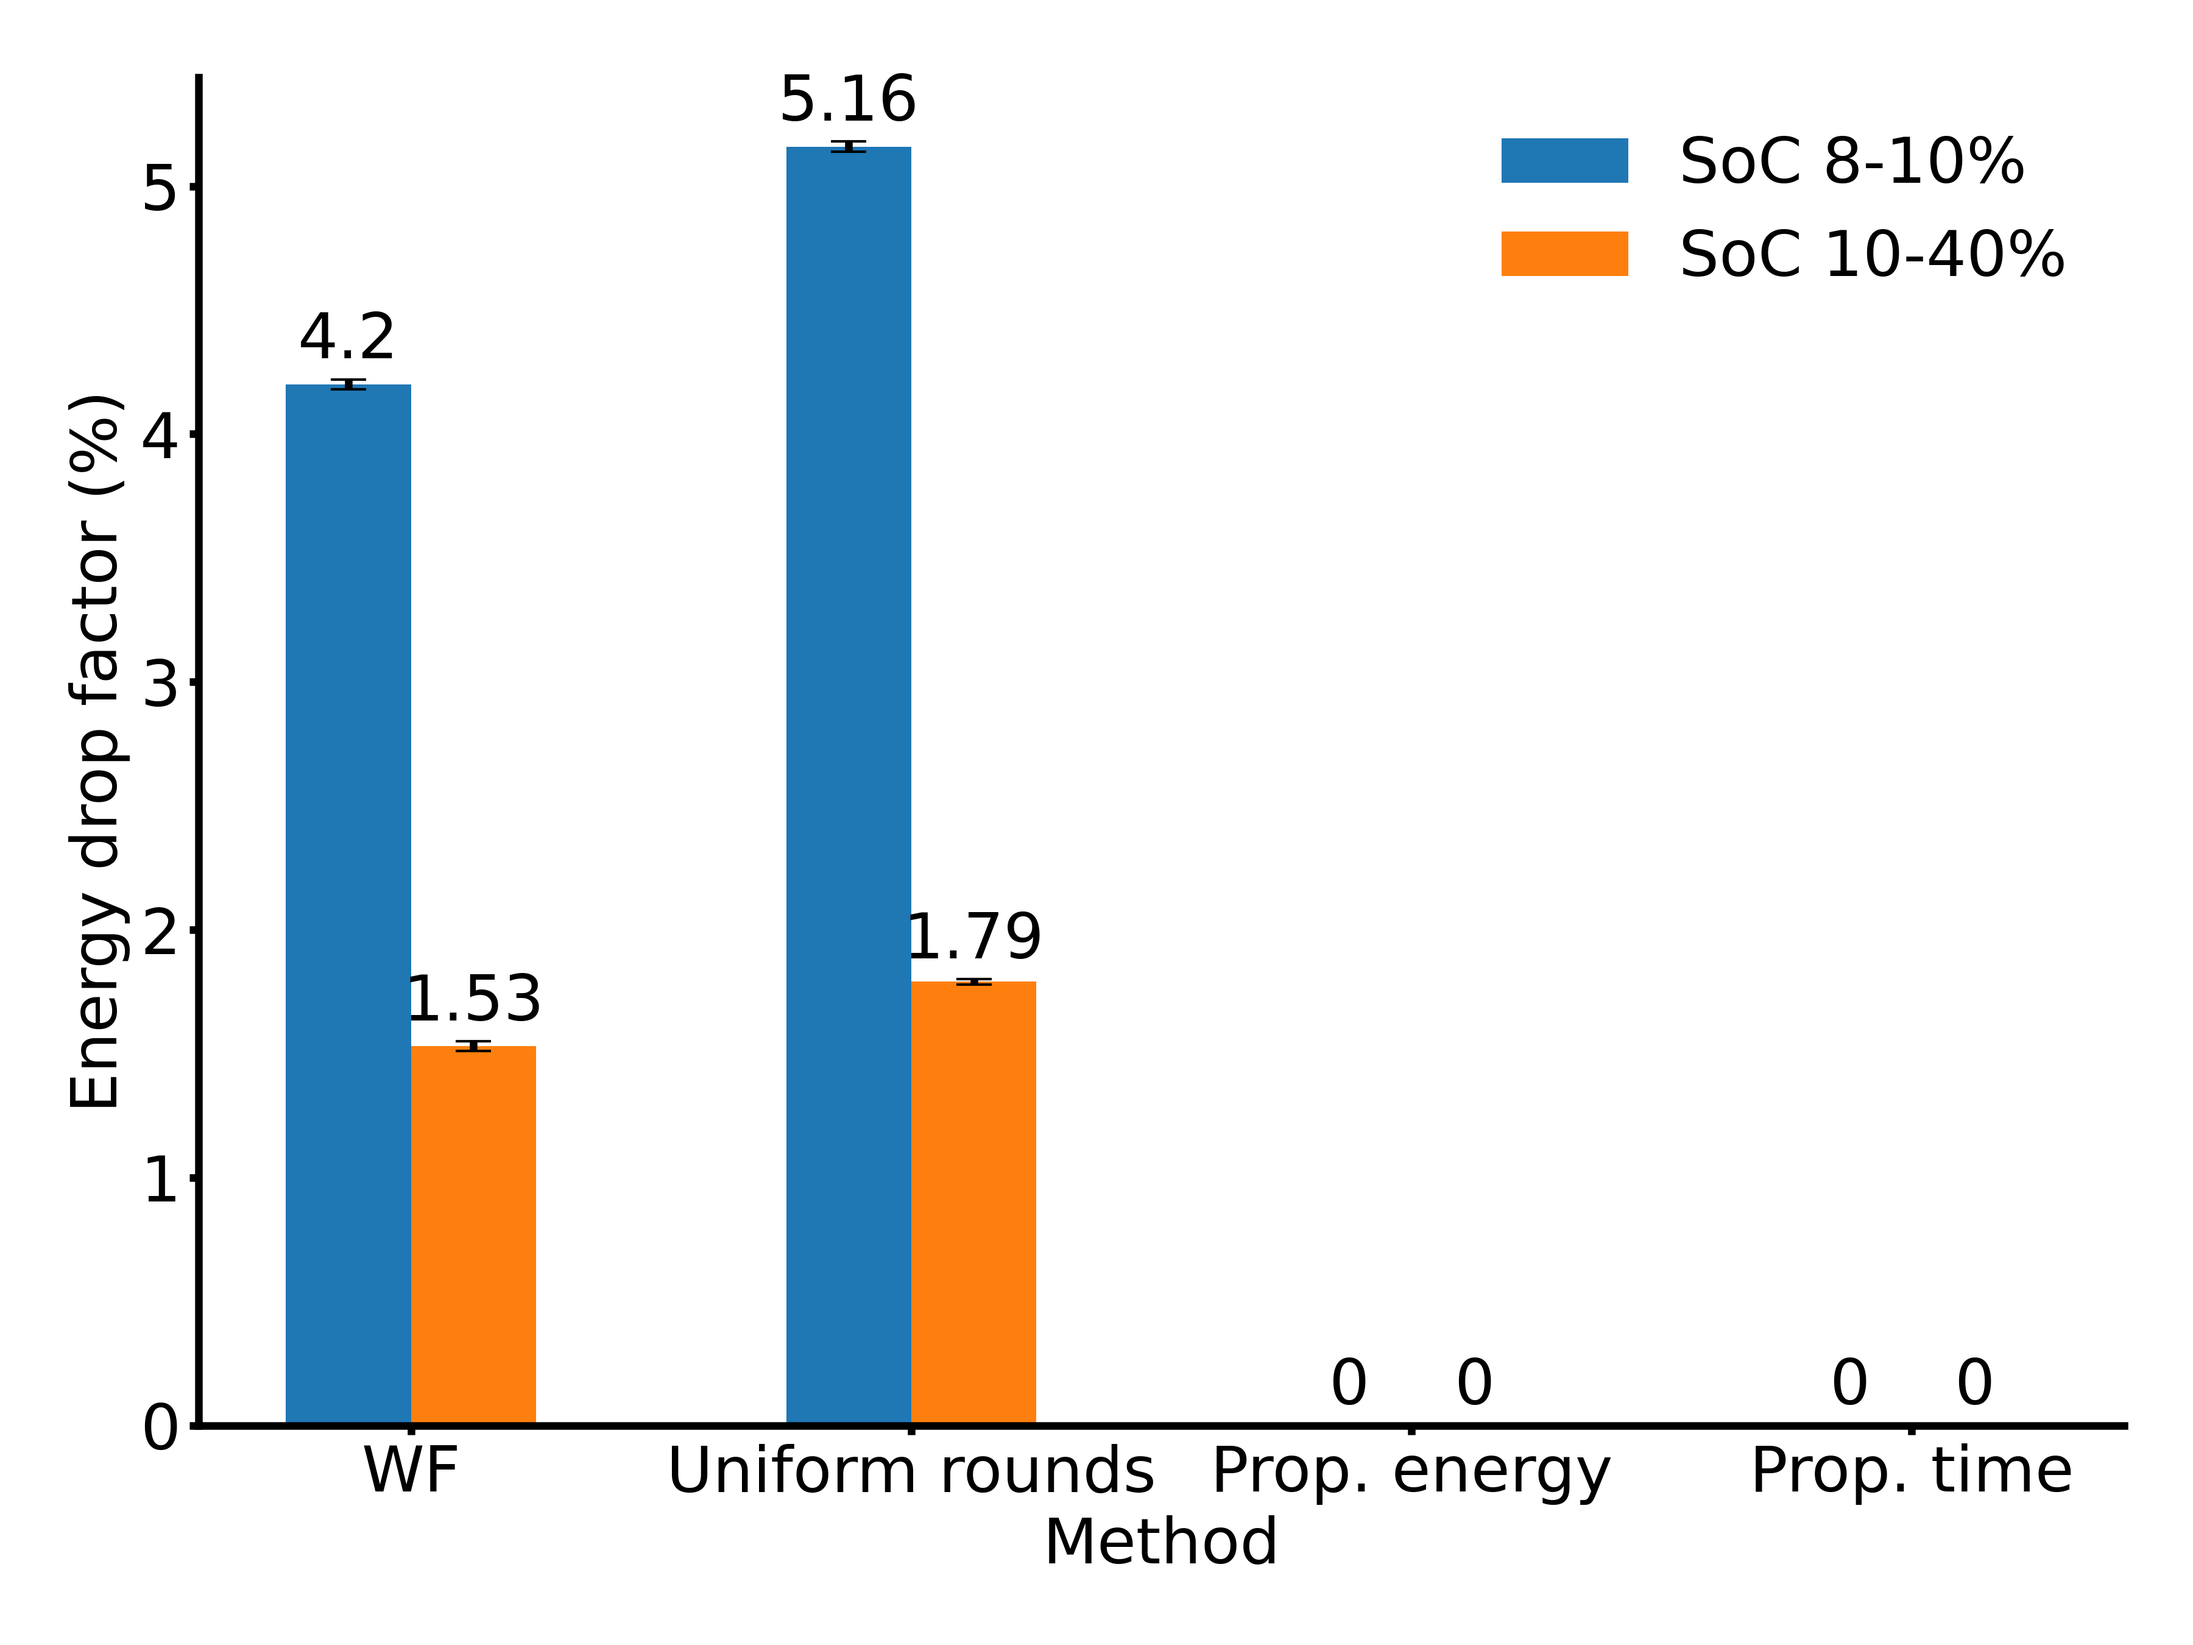
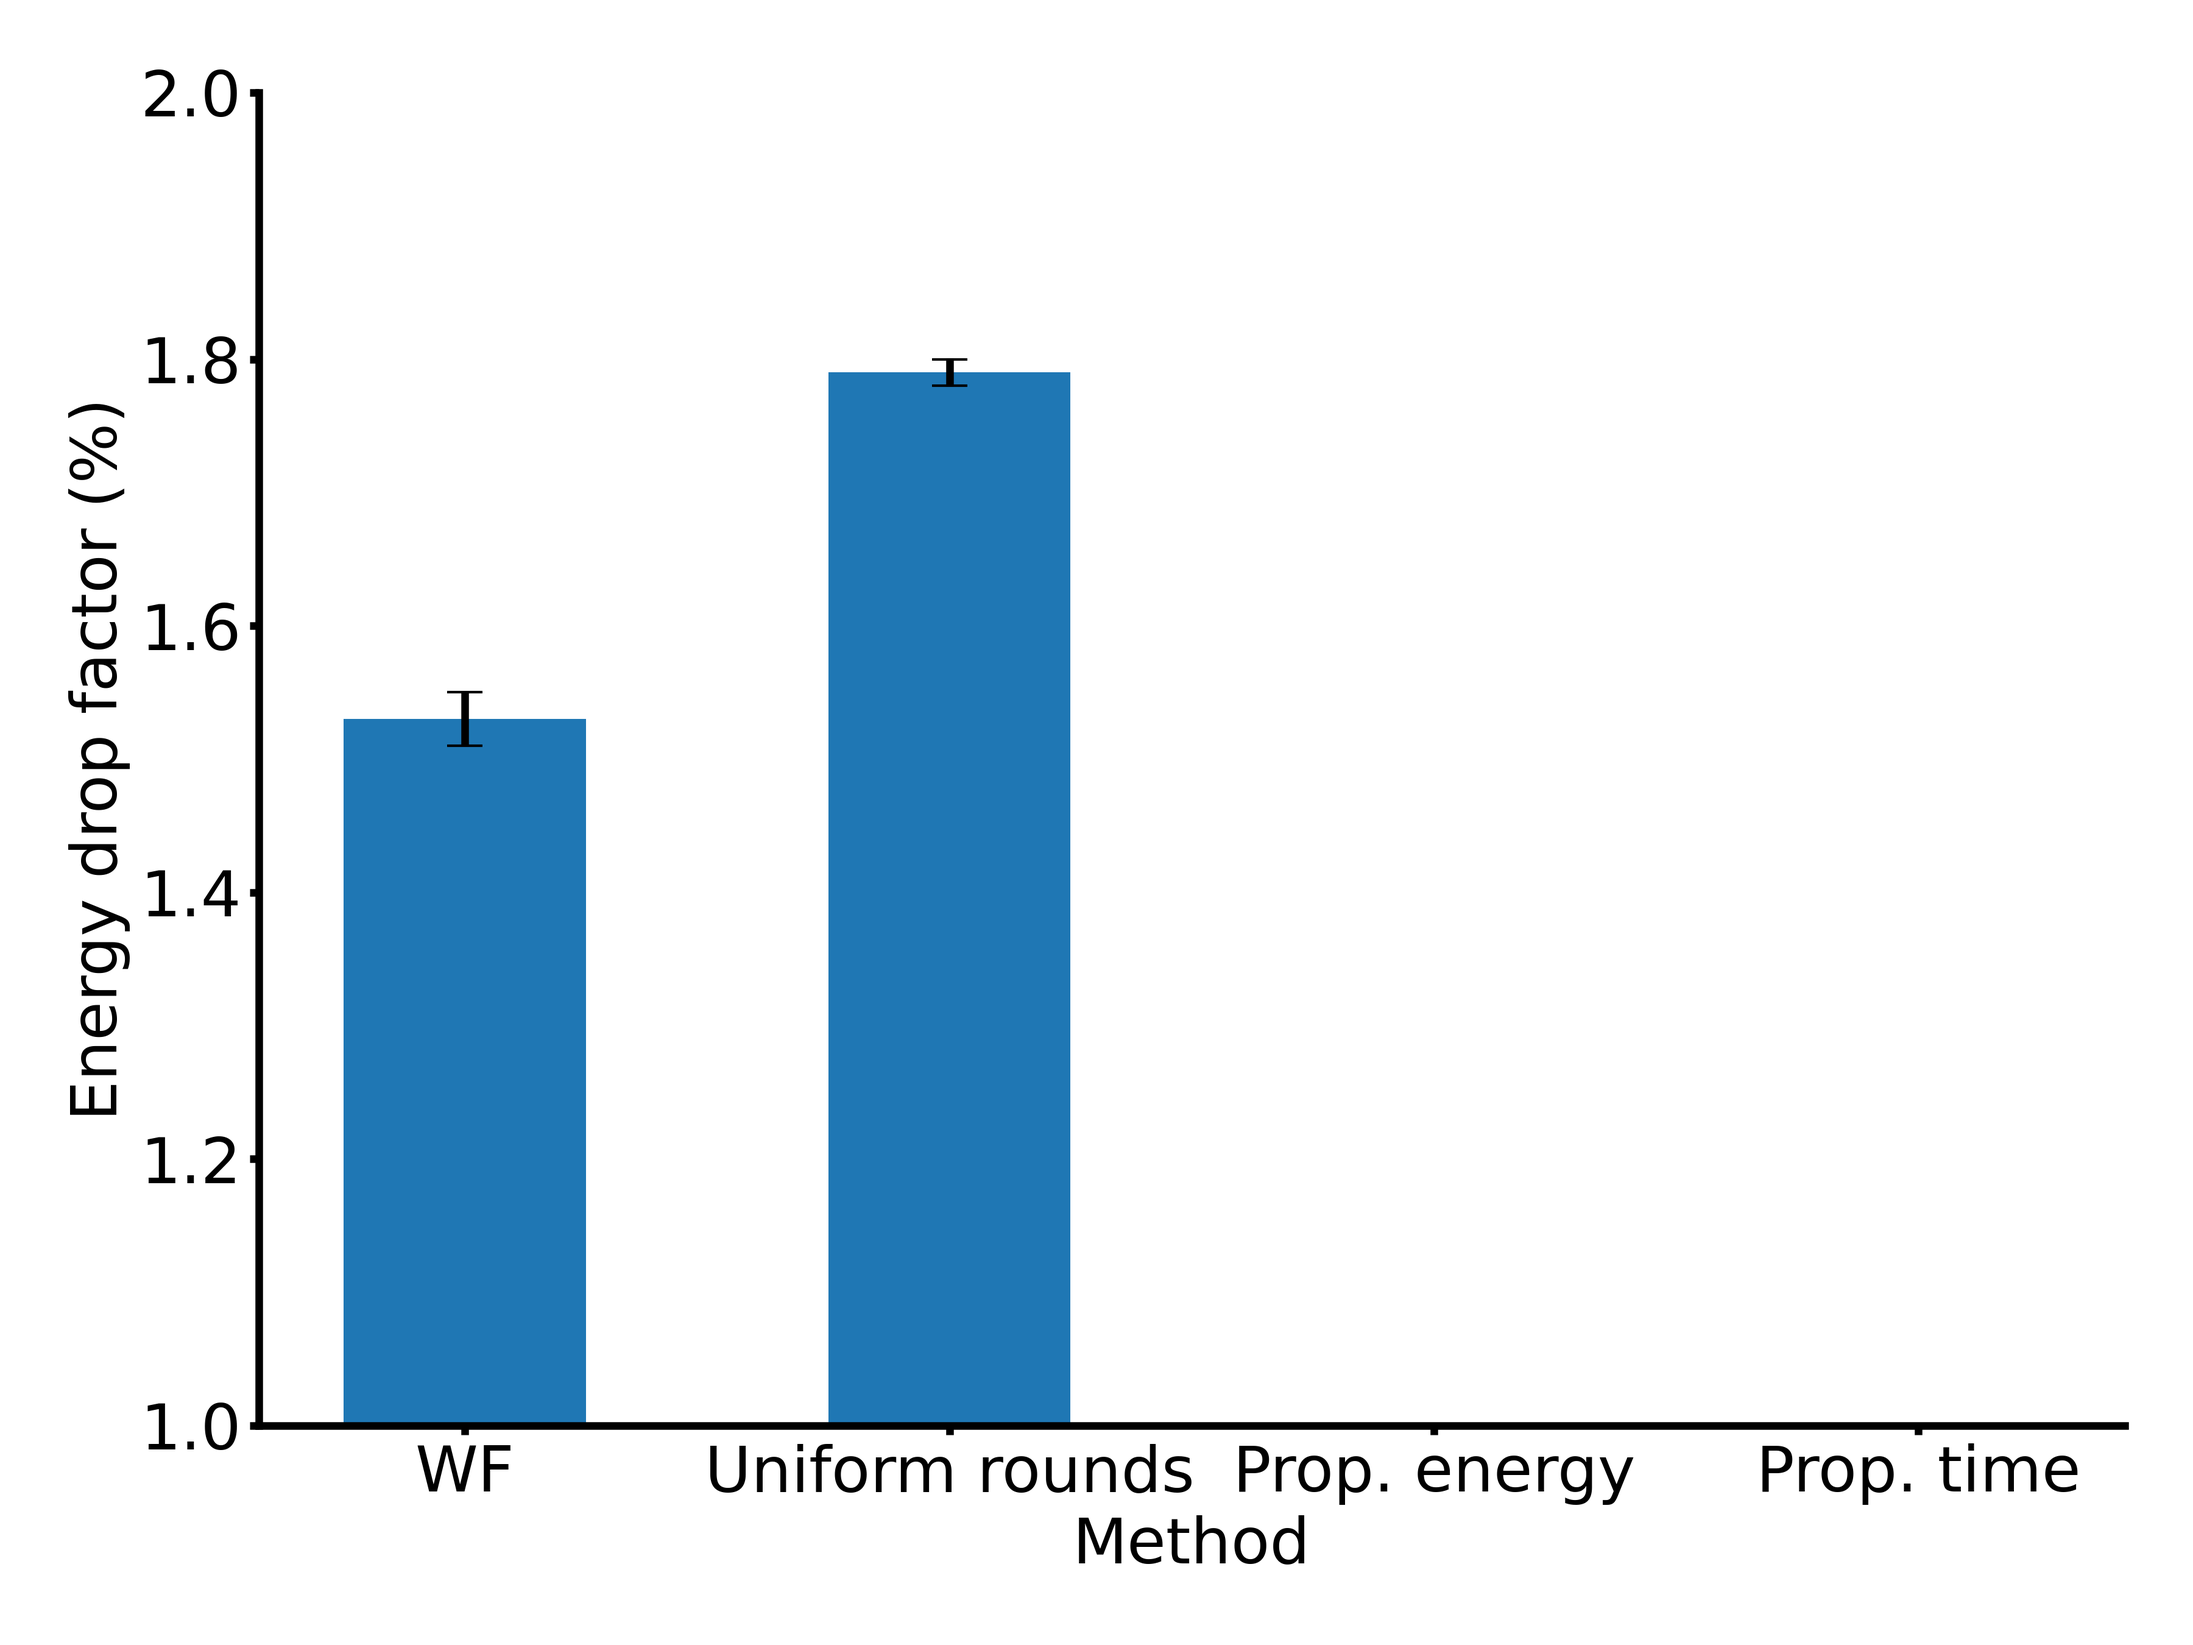
Better plots

diff --git a/plots/plot_drop_factor.py b/plots/plot_drop_factor.py
@@ -5,40 +5,25 @@ import numpy as np
 plt.style.use('~/guiaraujo.mplstyle')
 
 solvers = ["WF","Uniform rounds","Prop. energy","Prop. time"]
-drop_factor_8_to_10 = [4.20, 5.16, 0, 0]
-drop_factor_8_to_10_err = [0.02, 0.02, 0, 0]
 drop_factor_10_to_40 = [1.53, 1.79, 0, 0]
 drop_factor_10_to_40_err = [0.02, 0.01, 0, 0]
 
 x = np.arange(len(solvers))
 
-fig, ax = plt.subplots(figsize=(12,9), layout='constrained')
-
-# 8 to 10
-rects = ax.bar(
-    x, 
-    drop_factor_8_to_10, 
-    yerr=drop_factor_8_to_10_err,
-    width=0.25, 
-    label="SoC 8-10%")
-ax.bar_label(rects, padding=3)
-
+fig, ax = plt.subplots(figsize=(12,9))
 # 10 to 40
 rects = ax.bar(
-    x+0.25, 
+    x, 
     drop_factor_10_to_40, 
     yerr=drop_factor_10_to_40_err,
-    width=0.25, 
+    width=0.5, 
     label="SoC 10-40%")
-ax.bar_label(rects, padding=3)
 
-ax.set_xticks(x+0.25/2)
+ax.set_xticks(x)
 ax.set_xticklabels(solvers)
 ax.set_xlabel("Method")
 ax.set_ylabel("Energy drop factor (%)")
-#ax.set_ylim(4,6)
-
-ax.legend()
+ax.set_ylim(1,2)
 
 plt.tight_layout()
 plt.savefig("plots/drop_factor.png", dpi=300)

diff --git a/plots/plot_energy_stdev_bad_case.py b/plots/plot_energy_stdev_bad_case.py
@@ -5,8 +5,8 @@ import numpy as np
 plt.style.use('~/guiaraujo.mplstyle')
 
 solvers = ["WF","Uniform rounds","Prop. energy","Prop. time"]
-stdev_soc_10_to_40 = [4464,4713,0,0]
-stdev_soc_10_to_40_err = [68, 3,0,0]
+stdev_soc_8_to_10 = [375,334,0,0]
+stdev_soc_8_to_10_err = [92, 3,0,0]
 
 
 x = np.arange(len(solvers))
@@ -16,17 +16,17 @@ fig, ax = plt.subplots(figsize=(12,9))
 # 10 to 40
 rects = ax.bar(
     x, 
-    stdev_soc_10_to_40, 
-    yerr=stdev_soc_10_to_40_err,
+    stdev_soc_8_to_10, 
+    yerr=stdev_soc_8_to_10_err,
     width=0.5, 
-    label="SoC 10-40%")
+    label="SoC 8-10%")
 
 ax.set_xticks(x)
 ax.set_xticklabels(solvers)
 ax.set_xlabel("Method")
 ax.set_ylabel("Energy standard deviation")
-ax.set_ylim(4000,5000)
+ax.set_ylim(50,500)
 
 plt.tight_layout()
-plt.savefig("plots/stdev_soc.png", dpi=300)
+plt.savefig("plots/stdev_soc_bad_case.png", dpi=300)
 plt.close()
